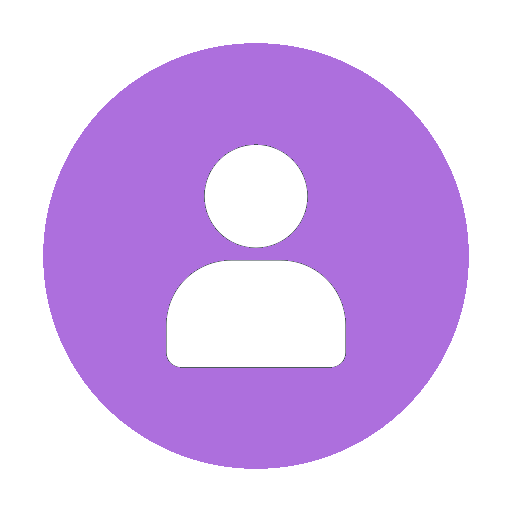
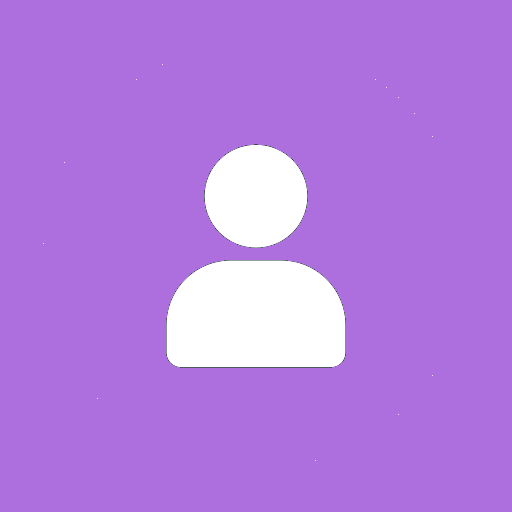
Add upload images feature

diff --git a/src/main/resources/static/js/create.js b/src/main/resources/static/js/create.js
@@ -6,6 +6,7 @@ async function sendDataToServer() {
     var bName = document.getElementById("name").value;
     var bDescription = document.getElementById("description").value;
     var bDate = document.getElementById("date").value;
+    var photo = document.getElementById("photo").files[0];
 
     if (!bName || !bDate) {
         alert("Пожалуйста, заполните все поля корректно!");
@@ -29,7 +30,22 @@ async function sendDataToServer() {
             throw new Error("Некорректные данные. Длина имени: 64 символа, длина описания: 128 символов.");
         }
 
-        const data = await response.json();
+        const birthday = await response.json();
+        const birthdayId = birthday.id;
+
+        if (photo) {
+            const formData = new FormData();
+            formData.append("photo", photo);
+
+            const photoResponse = await fetch(`/images/upload/${birthdayId}`, {
+                method: 'POST',
+                body: formData,
+            });
+
+            if (!photoResponse.ok) {
+                throw new Error("Ошибка при загрузке изображения.");
+            }
+        }
 
         alert("Запись успешно добавлена.");
 

diff --git a/src/main/resources/static/js/feed.js b/src/main/resources/static/js/feed.js
@@ -4,7 +4,9 @@ async function outputBlockElements(block, data) {
             const birthdayElement = document.createElement('div');
             
             birthdayElement.classList.add('birthdays');
-            
+
+            const imgSrc = d.image ? `/images/get/${d.id}` : "images/default_avatar.png";
+
             birthdayElement.innerHTML = `
                 <div class="birthday_id">
                     <div class="id">
@@ -12,7 +14,7 @@ async function outputBlockElements(block, data) {
                     </div>
                 </div>
                 <div class="birthday_avatar">
-                    <img src="images/default_avatar.png">
+                    <img src="${imgSrc}" alt="Не удалось загрузить фото">
                 </div>
                 <div class="birthday_data">
                     <div class="name">

diff --git a/src/main/resources/templates/create.html b/src/main/resources/templates/create.html
@@ -23,6 +23,7 @@
             <h2>Создание новой записи:</h2>
         </div>
         <div class="create_content">
+            <input type="file" id="photo"><br>
             <input type="text" placeholder="Введите имя" id="name"><br>
             <input type="text" placeholder="Введите описание" id="description"><br>
             <input type="date" id="date"><br>

diff --git a/src/main/resources/static/css/main.css b/src/main/resources/static/css/main.css
@@ -92,6 +92,7 @@ header a {
 .birthday_avatar img {
     max-width: 85px;
     height: auto;
+    border-radius: 10px;
 }
 .name, .description, .date {
     margin: 5px;

diff --git a/src/main/java/posdravlator/app/controllers/ImageController.java b/src/main/java/posdravlator/app/controllers/ImageController.java
@@ -1,0 +1,58 @@
+package posdravlator.app.controllers;
+
+import org.springframework.beans.factory.annotation.Autowired;
+import org.springframework.http.MediaType;
+import org.springframework.http.ResponseEntity;
+import org.springframework.web.bind.annotation.*;
+import org.springframework.web.multipart.MultipartFile;
+import posdravlator.app.models.Birthday;
+import posdravlator.app.services.BirthdayService;
+import posdravlator.app.services.ImageService;
+import org.springframework.http.HttpStatus;
+import java.io.IOException;
+
+@RestController
+@RequestMapping("/images")
+public class ImageController {
+    @Autowired
+    private BirthdayService birthdayService;
+
+    @Autowired
+    private ImageService imageService;
+
+    @PostMapping("/upload/{id}")
+    public ResponseEntity<String> uploadPhoto(@PathVariable Long id, @RequestParam("photo") MultipartFile image) {
+        try {
+            String imageId = imageService.uploadImage(image);
+            Birthday birthday = birthdayService.getBirthdayById(id);
+            birthday.setImage(imageId);
+            birthdayService.updateBirthday(id, birthday);
+
+            return ResponseEntity.ok("Фото успешно загружено");
+        }
+        catch (IOException e) {
+            return ResponseEntity.status(HttpStatus.INTERNAL_SERVER_ERROR).body("Не удалось загрузить фото.");
+        }
+    }
+
+    @GetMapping("/get/{id}")
+    public ResponseEntity<byte[]> getPhoto(@PathVariable Long id) throws IOException {
+        Birthday birthday = birthdayService.getBirthdayById(id);
+
+        if (birthday.getImage() == null) {
+            return ResponseEntity.status(HttpStatus.NOT_FOUND).body(null);
+        }
+
+        byte[] photoData = imageService.getImage(birthday.getImage());
+
+        if (photoData == null) {
+            return ResponseEntity.status(HttpStatus.NOT_FOUND).body(null);
+        }
+
+        String contentType = imageService.getImageType(birthday.getImage());
+
+        return ResponseEntity.ok()
+                .contentType(MediaType.parseMediaType(contentType))
+                .body(photoData);
+    }
+}

diff --git a/src/main/java/posdravlator/app/services/ImageService.java b/src/main/java/posdravlator/app/services/ImageService.java
@@ -1,0 +1,47 @@
+package posdravlator.app.services;
+
+import jakarta.persistence.EntityNotFoundException;
+import org.springframework.beans.factory.annotation.Autowired;
+import org.springframework.data.mongodb.gridfs.GridFsOperations;
+import org.springframework.stereotype.Service;
+import org.springframework.web.multipart.MultipartFile;
+import java.io.IOException;
+import com.mongodb.client.gridfs.model.GridFSFile;
+import static org.springframework.data.mongodb.core.query.Criteria.where;
+import static org.springframework.data.mongodb.core.query.Query.query;
+
+@Service
+public class ImageService {
+    @Autowired
+    private GridFsOperations gridFsOperations;
+
+    public String uploadImage(MultipartFile file) throws IOException {
+        return gridFsOperations.store(
+                file.getInputStream(),
+                file.getOriginalFilename(),
+                file.getContentType()
+        ).toString();
+    }
+
+    public byte[] getImage(String id) throws IOException {
+        GridFSFile gridFSFile = gridFsOperations.findOne(query(where("_id").is(id)));
+
+        if (gridFSFile != null) {
+            return gridFsOperations.getResource(gridFSFile).getContent().readAllBytes();
+        }
+
+        throw new EntityNotFoundException("Фото не найдено.");
+    }
+
+    public String getImageType(String imageId) {
+        if (imageId.endsWith(".png")) {
+            return "image/png";
+        }
+        else if (imageId.endsWith(".jpg") || imageId.endsWith(".jpeg")) {
+            return "image/jpeg";
+        }
+        else {
+            return "application/octet-stream";
+        }
+    }
+}

diff --git a/src/main/java/posdravlator/app/models/Birthday.java b/src/main/java/posdravlator/app/models/Birthday.java
@@ -26,6 +26,9 @@ public class Birthday {
     @Column(name = "date")
     private LocalDate date;
 
+    @Column(name = "image")
+    private String image;
+
     public Long getId() {
         return id;
     }
@@ -56,5 +59,13 @@ public class Birthday {
 
     public void setDate(LocalDate date) {
         this.date = date;
+    }
+
+    public String getImage() {
+        return image;
+    }
+
+    public void setImage(String image) {
+        this.image = image;
     }
 }

diff --git a/src/main/java/posdravlator/app/services/FeedService.java b/src/main/java/posdravlator/app/services/FeedService.java
@@ -14,7 +14,7 @@ public class FeedService {
     @Autowired
     private BirthdayRepository birthdayRepository;
 
-    private final int DAYS = 7;
+    private final int DAYS = 14;
 
     private List<Birthday> getAllBirthdays() {
         return birthdayRepository.findAll();
